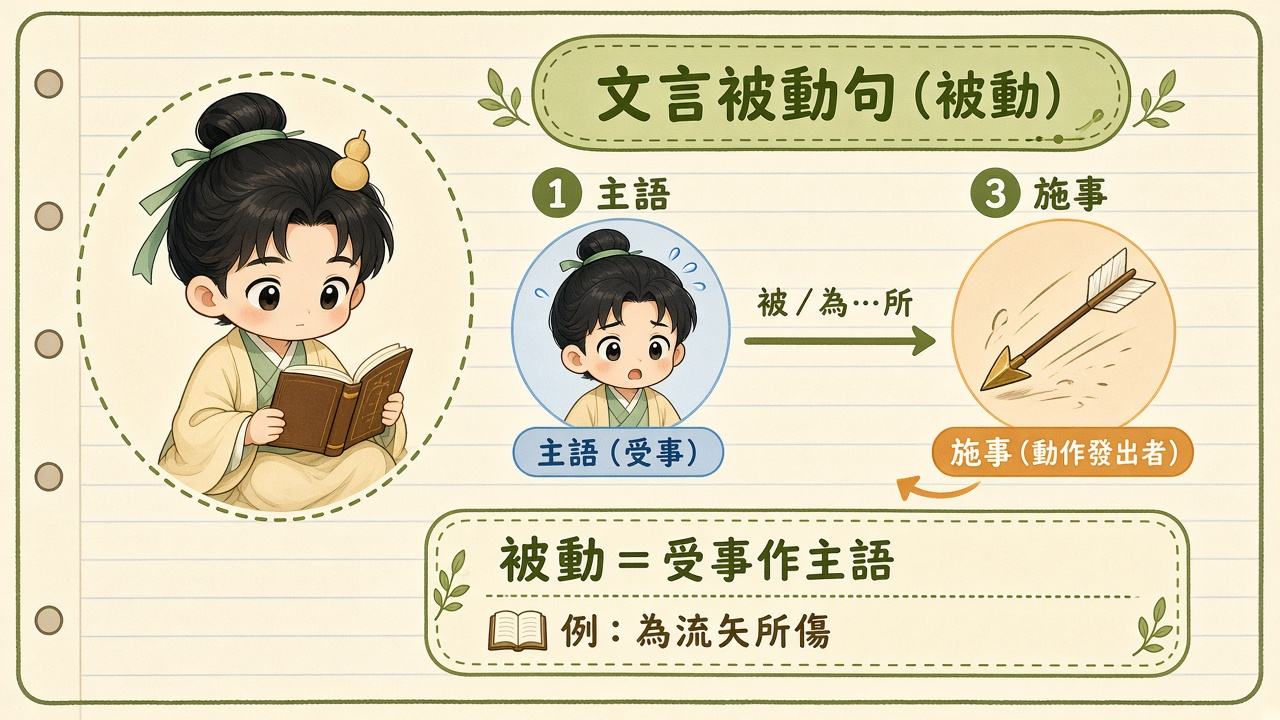
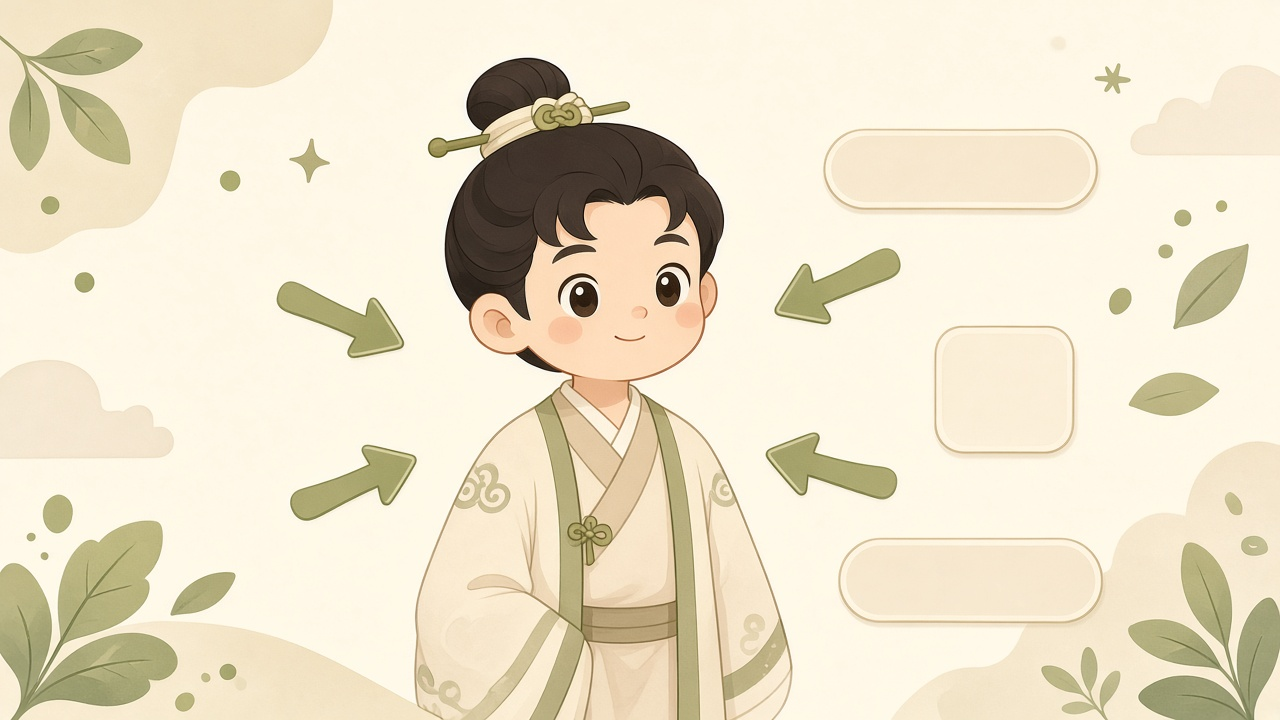
feat(R2.12): complete r2114 text-free knowledge art

diff --git a/js/app.js b/js/app.js
@@ -1194,7 +1194,7 @@
     if (!img) return "";
     const frame = img.closest(".teach-media-frame, .know-hero-art, figure.teach-art, .know-hero");
     if (frame) {
-      const t = frame.querySelector(".teach-sys-title");
+      const t = frame.querySelector(".teach-sys-caption");
       if (t && t.textContent.trim()) return t.textContent.trim();
       const fig = img.closest("figure");
       const fc = fig && fig.querySelector("figcaption");
@@ -1229,7 +1229,7 @@
     });
   }
 
-  /** Mark teach/hero/chart as zoomable; overlay system-font caption over baked PNG text. */
+  /** Mark teach/hero/chart as zoomable; keep system-font captions below the image. */
   function enhanceKnowledgeMedia(root) {
     if (!root) return;
     bindContentLightboxOnce();
@@ -1244,34 +1244,26 @@
       img.setAttribute("role", "button");
       if (!img.getAttribute("aria-label")) img.setAttribute("aria-label", "放大圖片");
 
-      let frame = img.closest(".teach-media-frame");
-      if (!frame) {
-        frame = document.createElement("div");
-        frame.className = "teach-media-frame";
-        img.parentNode.insertBefore(frame, img);
-        frame.appendChild(img);
-      }
-
       const fc = fig.querySelector("figcaption");
       let label = (fc && fc.textContent.trim()) || (img.getAttribute("alt") || "").trim();
       const chartKey = fig.getAttribute("data-chart");
       if (chartKey && CHART_SYS_LABEL[chartKey]) label = CHART_SYS_LABEL[chartKey];
 
-      if (label && !frame.querySelector(".teach-sys-overlay")) {
-        const overlay = document.createElement("div");
-        overlay.className = "teach-sys-overlay";
-        const span = document.createElement("span");
-        span.className = "teach-sys-title";
-        span.textContent = label;
-        overlay.appendChild(span);
-        frame.appendChild(overlay);
+      /* Keep the caption in normal flow, below the image; never cover the art. */
+      if (fc) {
+        fc.classList.add("teach-sys-caption");
+        if (chartKey && CHART_SYS_LABEL[chartKey]) fc.textContent = label;
+      } else if (label) {
+        const caption = document.createElement("p");
+        caption.className = "teach-sys-caption";
+        caption.textContent = label;
+        fig.appendChild(caption);
       }
 
       if (fig.classList.contains("know-chart-slot") && !fig.querySelector(".teach-sys-note")) {
         const note = document.createElement("p");
         note.className = "teach-sys-note";
-        note.textContent =
-          "系統字說明優先：請看上方色塊與下方表格。圖內焗字待 NOA 無字插畫替換。";
+        note.textContent = "系統字說明：請看上方色塊與下方表格。";
         fig.appendChild(note);
       }
 
@@ -1295,16 +1287,8 @@
       img.setAttribute("role", "button");
       if (!img.getAttribute("aria-label")) img.setAttribute("aria-label", "放大圖片");
 
-      const label = (cap && cap.textContent.trim()) || "";
-      if (label && art && !art.querySelector(".teach-sys-overlay")) {
-        const overlay = document.createElement("div");
-        overlay.className = "teach-sys-overlay";
-        const span = document.createElement("span");
-        span.className = "teach-sys-title";
-        span.textContent = label;
-        overlay.appendChild(span);
-        art.appendChild(overlay);
-      }
+      /* .know-hero-cap already is the single HTML caption below the image. */
+      if (cap) cap.classList.add("teach-sys-caption");
 
       if (!img.dataset.errBound) {
         img.dataset.errBound = "1";
@@ -2657,7 +2641,7 @@
 
   /* ---------- Boot ---------- */
   initFontScale();
-  const DATA_V = "r2113";
+  const DATA_V = "r2114";
   Promise.all([
     fetch("data/passages.json?v=" + DATA_V).then((r) => r.json()),
     fetch("data/knowledge.json?v=" + DATA_V).then((r) => r.json()),

diff --git a/index.html b/index.html
@@ -12,8 +12,8 @@
   <link rel="icon" type="image/png" sizes="32x32" href="art/ui/favicon-32.png" />
   <link rel="apple-touch-icon" href="art/ui/apple-touch-icon.png" />
   <link rel="manifest" href="manifest.webmanifest" />
-  <link rel="stylesheet" href="css/app.css?v=r2113" />
-  <link rel="stylesheet" href="css/ui-motion.css?v=r2113" />
+  <link rel="stylesheet" href="css/app.css?v=r2114" />
+  <link rel="stylesheet" href="css/ui-motion.css?v=r2114" />
 </head>
 <body>
   <div id="app">
@@ -322,23 +322,23 @@
 
   <nav class="tabbar" id="tabbar" aria-label="主導航">
     <button type="button" class="tab active" data-tab="home">
-      <img src="art/ui/tab_home.png?v=r2113" alt="" />
+      <img src="art/ui/tab_home.png?v=r2114" alt="" />
       <span>首頁</span>
     </button>
     <button type="button" class="tab" data-tab="practice">
-      <img src="art/ui/tab_practice.png?v=r2113" alt="" />
+      <img src="art/ui/tab_practice.png?v=r2114" alt="" />
       <span>練習</span>
     </button>
     <button type="button" class="tab" data-tab="wrong">
-      <img src="art/ui/tab_wrong.png?v=r2113" alt="" />
+      <img src="art/ui/tab_wrong.png?v=r2114" alt="" />
       <span>錯題</span>
     </button>
     <button type="button" class="tab" data-tab="bookmark">
-      <img src="art/ui/tab_bookmark.png?v=r2113" alt="" />
+      <img src="art/ui/tab_bookmark.png?v=r2114" alt="" />
       <span>書籤</span>
     </button>
     <button type="button" class="tab" data-tab="me">
-      <img src="art/ui/tab_me.png?v=r2113" alt="" />
+      <img src="art/ui/tab_me.png?v=r2114" alt="" />
       <span>我的</span>
     </button>
   </nav>
@@ -354,6 +354,6 @@
   </div>
 
   <div id="toast" class="toast" role="status" aria-live="polite"></div>
-  <script src="js/app.js?v=r2113"></script>
+  <script src="js/app.js?v=r2114"></script>
 </body>
 </html>

diff --git a/css/app.css b/css/app.css
@@ -2207,49 +2207,13 @@ img.content-zoomable:focus-visible {
   outline-offset: 2px;
 }
 
-.reader .teach-media-frame {
-  position: relative;
+.reader .teach-sys-caption {
   display: block;
-  width: 100%;
-  border-radius: 10px;
-  overflow: hidden;
-  background: #fff;
-}
-.reader .teach-media-frame > img {
-  display: block;
-  width: 100%;
-  height: auto;
-  max-height: 240px;
-  object-fit: contain;
-  margin: 0 auto;
-}
-.reader .teach-art-wide .teach-media-frame > img { max-height: 300px; }
-
-.reader .teach-sys-overlay {
-  position: absolute;
-  left: 0;
-  right: 0;
-  bottom: 0;
-  padding: 1.4rem 0.65rem 0.55rem;
-  background: linear-gradient(
-    to top,
-    rgba(255, 254, 250, 0.97) 0%,
-    rgba(255, 254, 250, 0.88) 45%,
-    rgba(255, 254, 250, 0) 100%
-  );
-  pointer-events: none;
+  margin: 0.35rem 0 0;
+  font-size: 0.8125rem;
+  line-height: 1.45;
+  color: #6F5A3A;
   text-align: center;
-}
-.reader .teach-sys-title {
-  display: inline-block;
-  font-size: 0.9375rem; /* scales with App 字級 */
-  line-height: 1.35;
-  font-weight: 800;
-  color: #2A2A2A;
-  padding: 0.2rem 0.55rem;
-  border-radius: 8px;
-  background: rgba(255, 248, 238, 0.92);
-  border: 1px solid #E8E0D0;
 }
 .reader .teach-sys-note {
   margin: 0.35rem 0 0;
@@ -2293,14 +2257,11 @@ img.content-zoomable:focus-visible {
 .reader .know-hero-art .tap-hint-ring {
   display: none; /* 寬圖唔再用細熱點環 */
 }
-.reader .know-hero-art .teach-sys-overlay {
-  border-radius: 0 0 14px 14px;
-}
 .reader .know-hero-cap {
   font-size: 0.9375rem; /* system font; follows data-font */
 }
 
-/* chart：焗字圖暫留可放大；系統字說明優先（色塊＋表） */
+/* chart：圖下系統字說明＋可放大；色塊與表格仍是主說明 */
 .reader .know-chart-slot .teach-sys-note {
   font-weight: 600;
 }

diff --git a/REVISION_R2.12.md b/REVISION_R2.12.md
@@ -20,7 +20,7 @@
 | 帽 | 產出 |
 | --- | --- |
 | NOA | 無字卡通 teach／hero → `art/knowledge/teach/`；`ART_KIT`／`IMPORT` 更新 |
-| GIDEON | lightbox；知識頁 HTML 系統字疊文；接新圖；修破圖；推 Pages `?v=r2113` |
+| GIDEON | lightbox；知識頁圖下 HTML 系統字 caption；接新圖；修破圖；推 Pages `?v=r2114` |
 | RIN | DESIGN 不動 |
 
 ## GIDEON 本輪（r2113）
@@ -37,29 +37,29 @@
 ### 改動檔
 | 檔 | 內容 |
 | --- | --- |
-| `index.html` | `#img-lightbox`；`?v=r2113` |
-| `css/app.css` | lightbox；teach 系統字 overlay；hero 寬幅；object-fit／破圖態 |
-| `js/app.js` | lightbox（點圖／Esc／關閉）；`enhanceKnowledgeMedia`；`DATA_V=r2113` |
+| `index.html` | `#img-lightbox`；`?v=r2114` |
+| `css/app.css` | lightbox；teach 圖下系統字 caption；hero 寬幅；object-fit／破圖態 |
+| `js/app.js` | lightbox（點圖／Esc／關閉）；`enhanceKnowledgeMedia` 圖下 caption；`DATA_V=r2114` |
 | `GAME_BRIEF.json` | `knowledge_media`／`revisions.R2.12`（已有） |
 | `REVISION_R2.12.md` | 本檔 |
 
 ### Lightbox
 - 目標：`#know-content` 內 `.teach-art img`、`.know-hero-art img`（class `content-zoomable`）
 - 開：點圖或 Enter／空白；關：遮罩、關閉掣、**Esc**
-- caption 用系統字（`.teach-sys-title`／figcaption／know-hero-cap）；**rem** 跟 `html[data-font]`
+- caption 用圖下系統字（`.teach-sys-caption`／figcaption／know-hero-cap）；**rem** 跟 `html[data-font]`
 - 除外：tabbar／quiz chrome／brand／bookmark 等（選擇器擋）
 
-### 疊字（等 NOA 前）
-- 每張 teach／hero：底欄 **系統字** `.teach-sys-overlay` 蓋過焗字底緣；文案來自既有 figcaption／alt／`know-hero-cap`／chart 對照表
-- chart 另加 `.teach-sys-note`：提示「系統字優先＝色塊＋表格」
+### 圖下系統字（R2.12b）
+- 每張 teach：沿用／補上圖下 `.teach-sys-caption`／`figcaption`，不再以半透明底欄覆蓋圖片；文案來自既有 figcaption／alt／chart 對照表
+- 每張 hero：沿用既有圖下 `.know-hero-cap`，不重複插入 caption
+- chart 另加 `.teach-sys-note`：提示「系統字說明：請看上方色塊與下方表格」
 - **未改玩法／色標／解釋關零高亮**
 
 ### 部署
-- cache：`?v=r2113`
-- 可獨立上線：**lightbox＋hero 破顯示修＋疊字結構**
-- **等 NOA 無字換皮再 r2114**（焗字仍在 PNG 裡，overlay 只蓋底；完整驗收要無字檔）
+- cache：`?v=r2114`
+- 可獨立上線：**lightbox＋hero 破顯示修＋圖下 caption 結構＋無字新圖**
 
-## 還等 NOA（同路徑覆蓋即可，無需改 JS）
+## NOA 交付記錄（同路徑覆蓋，已完成）
 請交 **無焗中文** 扁平卡通（白底教育語彙），覆蓋：
 
 | 路徑 | 用途 |
@@ -83,10 +83,15 @@
 | `art/knowledge/teach/teach_compare_shi_yi.png` | 使／意對照 |
 | `art/knowledge/chart_*.png`（7） | 可改無字插畫，或廢 PNG 全改 DOM（GIDEON 可跟） |
 
-說明文案繼續由 HTML／系統字（勿燒進圖）。交齊後 GIDEON：換檔＋`?v=r2114`＋更新 `IMPORT.md`。
+說明文案由圖下 HTML／系統字提供（勿燒進圖）；已完成換檔、`?v=r2114`、`IMPORT.md` 更新。
 
 ## 驗收
 - [x] 點內容圖 → 放大；點遮罩／關閉／Esc 還原（結構）
-- [~] 知識頁可見字＝系統字 overlay（焗圖字仍在底層，等 NOA）
+- [x] 知識頁可見字＝圖下 HTML 系統字；無半透明底欄覆蓋圖片
 - [x] 無 404；hero 不再 64×64 破顯示
-- [ ] 卡通無字剪影清晰（等 NOA）
+- [x] 卡通無字剪影清晰（NOA R2.12b：hero×11＋teach×7）
+
+### NOA delivery R2.12b／r2114
+- [x] Pretty GenerateImage 無焗字已覆蓋 hero×11＋teach×7；色塊骨架不上線。
+- [x] GIDEON 改用圖下 HTML 系統字 caption；hero 沿用 `.know-hero-cap`，無重疊蓋圖。
+- [x] 全站 cache、`DATA_V`、tab 圖及 ui-motion 已更新至 `r2114`。

diff --git a/ART_KIT.md b/ART_KIT.md
@@ -242,3 +242,11 @@ commercial_ok: true
 
 ## R2.11.1 被動
 `teach_passive`／`hero_passive`：Logo 主人翁卡通重畫；清爽筆記本風。舊檔已覆蓋。
+
+## R2.12b — pretty GenerateImage 無焗字（NOA 2026-09-27）
+
+- **方法：** Cursor GenerateImage＋`logo_master` 參考；**禁止** Pillow 色塊骨架上線。
+- **規則：** `text_in_image: false`；說明由 GIDEON 圖下 HTML 系統字 caption；可 lightbox。
+- **路徑：** `art/knowledge/teach/hero_*.png`（11）＋`teach_*.png`（7）；覆蓋同路徑。
+- **commercial_ok：** true（自生圖）。
+- **系統字說明速查：** features→單音／省略／語序；howto-read→斷句→釋詞→通譯→章旨→賞析；particles→而／也／者／乎／之／於／其；polysemy→之三義；ancient-modern→古義↔今義；loan→本字↔通假；sentence／shi／yi／compare→使動／意動；passive→受事／施事。

diff --git a/IMPORT.md b/IMPORT.md
@@ -180,3 +180,11 @@ commercial_ok: true
 | hero_passive | art/knowledge/teach/hero_passive.png |
 
 Logo 主人翁卡通；舊醜圖已覆蓋。commercial_ok: true
+
+## R2.12b — pretty GenerateImage 無焗字（NOA 2026-09-27）
+
+- **方法：** Cursor GenerateImage＋`logo_master` 參考；**禁止** Pillow 色塊骨架上線。
+- **規則：** `text_in_image: false`；說明由 GIDEON 圖下 HTML 系統字 caption；可 lightbox。
+- **路徑：** `art/knowledge/teach/hero_*.png`（11）＋`teach_*.png`（7）；覆蓋同路徑。
+- **commercial_ok：** true（自生圖）。
+- **系統字說明速查：** features→單音／省略／語序；howto-read→斷句→釋詞→通譯→章旨→賞析；particles→而／也／者／乎／之／於／其；polysemy→之三義；ancient-modern→古義↔今義；loan→本字↔通假；sentence／shi／yi／compare→使動／意動；passive→受事／施事。
